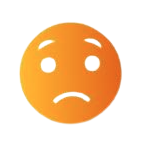
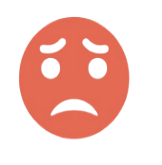
agrego primer pagina de memo, agrego emoji para unsatisfactory y achico titulos de lado izquierdo

diff --git a/app/helpers/conclusion_reviews/bic_pdf/conclusion_review_helper.rb b/app/helpers/conclusion_reviews/bic_pdf/conclusion_review_helper.rb
@@ -16,6 +16,22 @@ module ConclusionReviews::BicPdf::ConclusionReviewHelper
     names.join '; '
   end
 
+  def review_version_text draft
+    I18n.t "conclusion_review.bic.cover.versions.#{draft ? 'draft' : 'final'}"
+  end
+
+  def put_bic_cover_note_on conclusion_review
+    note = if conclusion_review.is_a?(ConclusionDraftReview) && conclusion_review.review.weaknesses.any?
+             'draft_with_weaknesses'
+           elsif conclusion_review.is_a?(ConclusionFinalReview) && conclusion_review.review.weaknesses.any?
+             'final_with_weaknesses'
+           elsif conclusion_review.is_a? ConclusionFinalReview
+             'final_without_weaknesses'
+           end
+
+    note.present? ? I18n.t("conclusion_review.bic.cover.#{note}") : ''
+  end
+
   def bic_previous_review_text conclusion_review
     if conclusion_review.previous_identification.present? && conclusion_review.previous_date.present?
       [
